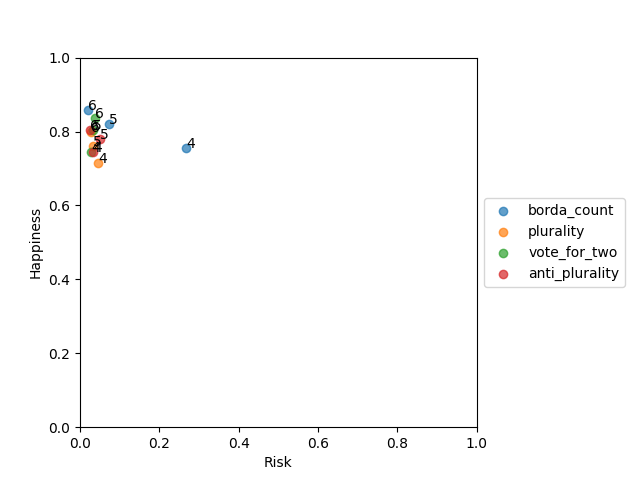
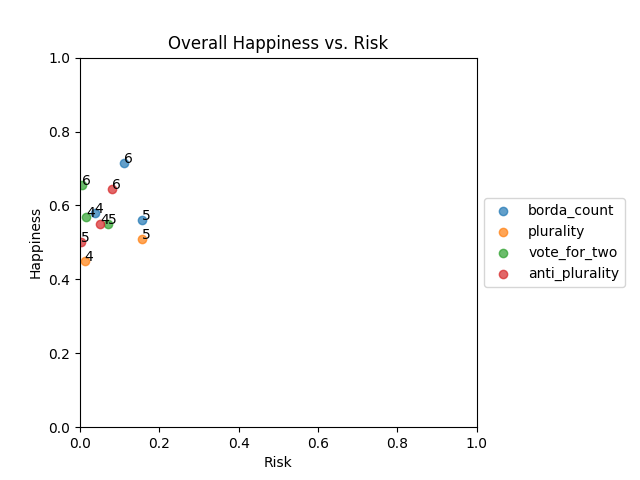
Add sampling to experiments

diff --git a/experiments/ic_lw_tsb_r1/config.py b/experiments/ic_lw_tsb_r1/config.py
@@ -2,6 +2,7 @@ import numpy as np
 from tactical_voting_analyst.tactical_voting_analyst import TacticalVotingAnalyst
 from tactical_voting_analyst.voting_schemes import VotingScheme
 from tactical_voting_analyst.happiness_schemes import HappinessScheme
+from tactical_voting_analyst.init_voters import init_voters, DistributionTypes, sample_preferences
 from experiment import ExperimentType
 
 CANDIDATES_NAMES = (("A", "B", "C"),
@@ -10,53 +11,56 @@ CANDIDATES_NAMES = (("A", "B", "C"),
                     ("A", "B", "C", "D", "E", "F"))
 
 CANDIDATES = [np.arange(len(c)) for c in CANDIDATES_NAMES]
+DISTRIBUTION = DistributionTypes.two_peaks
 
-PREFERENCES = (
-    np.array(
-        [
-            [0, 1, 2],
-            [1, 2, 0],
-            [2, 0, 1],
-            [0, 1, 2],
-            [1, 2, 0],
-            [2, 0, 1],
-            [0, 1, 2],
-        ]
-    ),
-    np.array(
-        [
-            [0, 1, 2, 3],
-            [1, 2, 3, 0],
-            [2, 3, 0, 1],
-            [0, 1, 2, 3],
-            [1, 2, 3, 0],
-            [2, 3, 0, 1],
-            [0, 1, 2, 3],
-        ]
-    ),
-    np.array(
-        [
-            [0, 1, 2, 3, 4],
-            [1, 2, 3, 4, 0],
-            [2, 3, 4, 0, 1],
-            [0, 1, 2, 3, 4],
-            [1, 2, 3, 4, 0],
-            [2, 3, 4, 0, 1],
-            [0, 1, 2, 3, 4],
-        ]
-    ),
-    np.array(
-        [
-            [0, 1, 2, 3, 4, 5],
-            [1, 2, 3, 4, 5, 0],
-            [2, 3, 4, 5, 0, 1],
-            [0, 1, 2, 3, 4, 5],
-            [1, 2, 3, 4, 5, 0],
-            [2, 3, 4, 5, 0, 1],
-            [0, 1, 2, 3, 4, 5],
-        ]
-    ),
-)
+N_VOTERS = 10
+PREFERENCES = sample_preferences(CANDIDATES_NAMES, DISTRIBUTION, N_VOTERS)
+# PREFERENCES = (
+#     np.array(
+#         [
+#             [0, 1, 2],
+#             [1, 2, 0],
+#             [2, 0, 1],
+#             [0, 1, 2],
+#             [1, 2, 0],
+#             [2, 0, 1],
+#             [0, 1, 2],
+#         ]
+#     ),
+#     np.array(
+#         [
+#             [0, 1, 2, 3],
+#             [1, 2, 3, 0],
+#             [2, 3, 0, 1],
+#             [0, 1, 2, 3],
+#             [1, 2, 3, 0],
+#             [2, 3, 0, 1],
+#             [0, 1, 2, 3],
+#         ]
+#     ),
+#     np.array(
+#         [
+#             [0, 1, 2, 3, 4],
+#             [1, 2, 3, 4, 0],
+#             [2, 3, 4, 0, 1],
+#             [0, 1, 2, 3, 4],
+#             [1, 2, 3, 4, 0],
+#             [2, 3, 4, 0, 1],
+#             [0, 1, 2, 3, 4],
+#         ]
+#     ),
+#     np.array(
+#         [
+#             [0, 1, 2, 3, 4, 5],
+#             [1, 2, 3, 4, 5, 0],
+#             [2, 3, 4, 5, 0, 1],
+#             [0, 1, 2, 3, 4, 5],
+#             [1, 2, 3, 4, 5, 0],
+#             [2, 3, 4, 5, 0, 1],
+#             [0, 1, 2, 3, 4, 5],
+#         ]
+#     ),
+# )
 
 TVA = TacticalVotingAnalyst
 
@@ -73,4 +77,4 @@ EXPERIMENT_TYPE = ExperimentType.INCREASE_CANDIDATES
 
 TACTICAL_STRATEGY = 'BASIC'
 
-RISK_TYPE = 1
+RISK_TYPE = 2

diff --git a/experiment.py b/experiment.py
@@ -157,7 +157,8 @@ class Experiment:
         # _, _, _, new_outcome = scheme_tactical_options[0]
         scheme_risk = self.tva.calculate_risk(
             scheme_tactical_options, vs, self.happiness_scheme, version=self.risk_type)
-        scheme_happiness = self.tva.overall_happiness(vs)
+        scheme_happiness = self.tva.overall_happiness(
+            vs, self.happiness_scheme)
 
         return scheme_risk, scheme_happiness
 
@@ -174,6 +175,7 @@ class Experiment:
         ax.legend(loc="center left", bbox_to_anchor=(1, 0.5))
         plt.xlabel("Risk")
         plt.ylabel("Happiness")
+        plt.title("Overall Happiness vs. Risk")
 
     def apply_jitter(self, points, multi=False):
         if multi:

diff --git a/tactical_voting_analyst/init_voters.py b/tactical_voting_analyst/init_voters.py
@@ -118,6 +118,19 @@ def experiment():
     )
     plt.show()
 
+def sample_preferences(candidates_names, distribution, n_voters):
+    preferences = []
+    for candidate_set in candidates_names:
+        frequencies, voter_counts, observations = init_voters(
+            candidate_set, distribution_function=distribution, voters_count=n_voters
+        )
+
+        preferences_ = tuple(
+            tuple(candidate_set.index(a) for a in p) for p in observations
+        )
+        preferences.append(preferences_)
+
+    return preferences
 
 if __name__ == "__main__":
     experiment()
